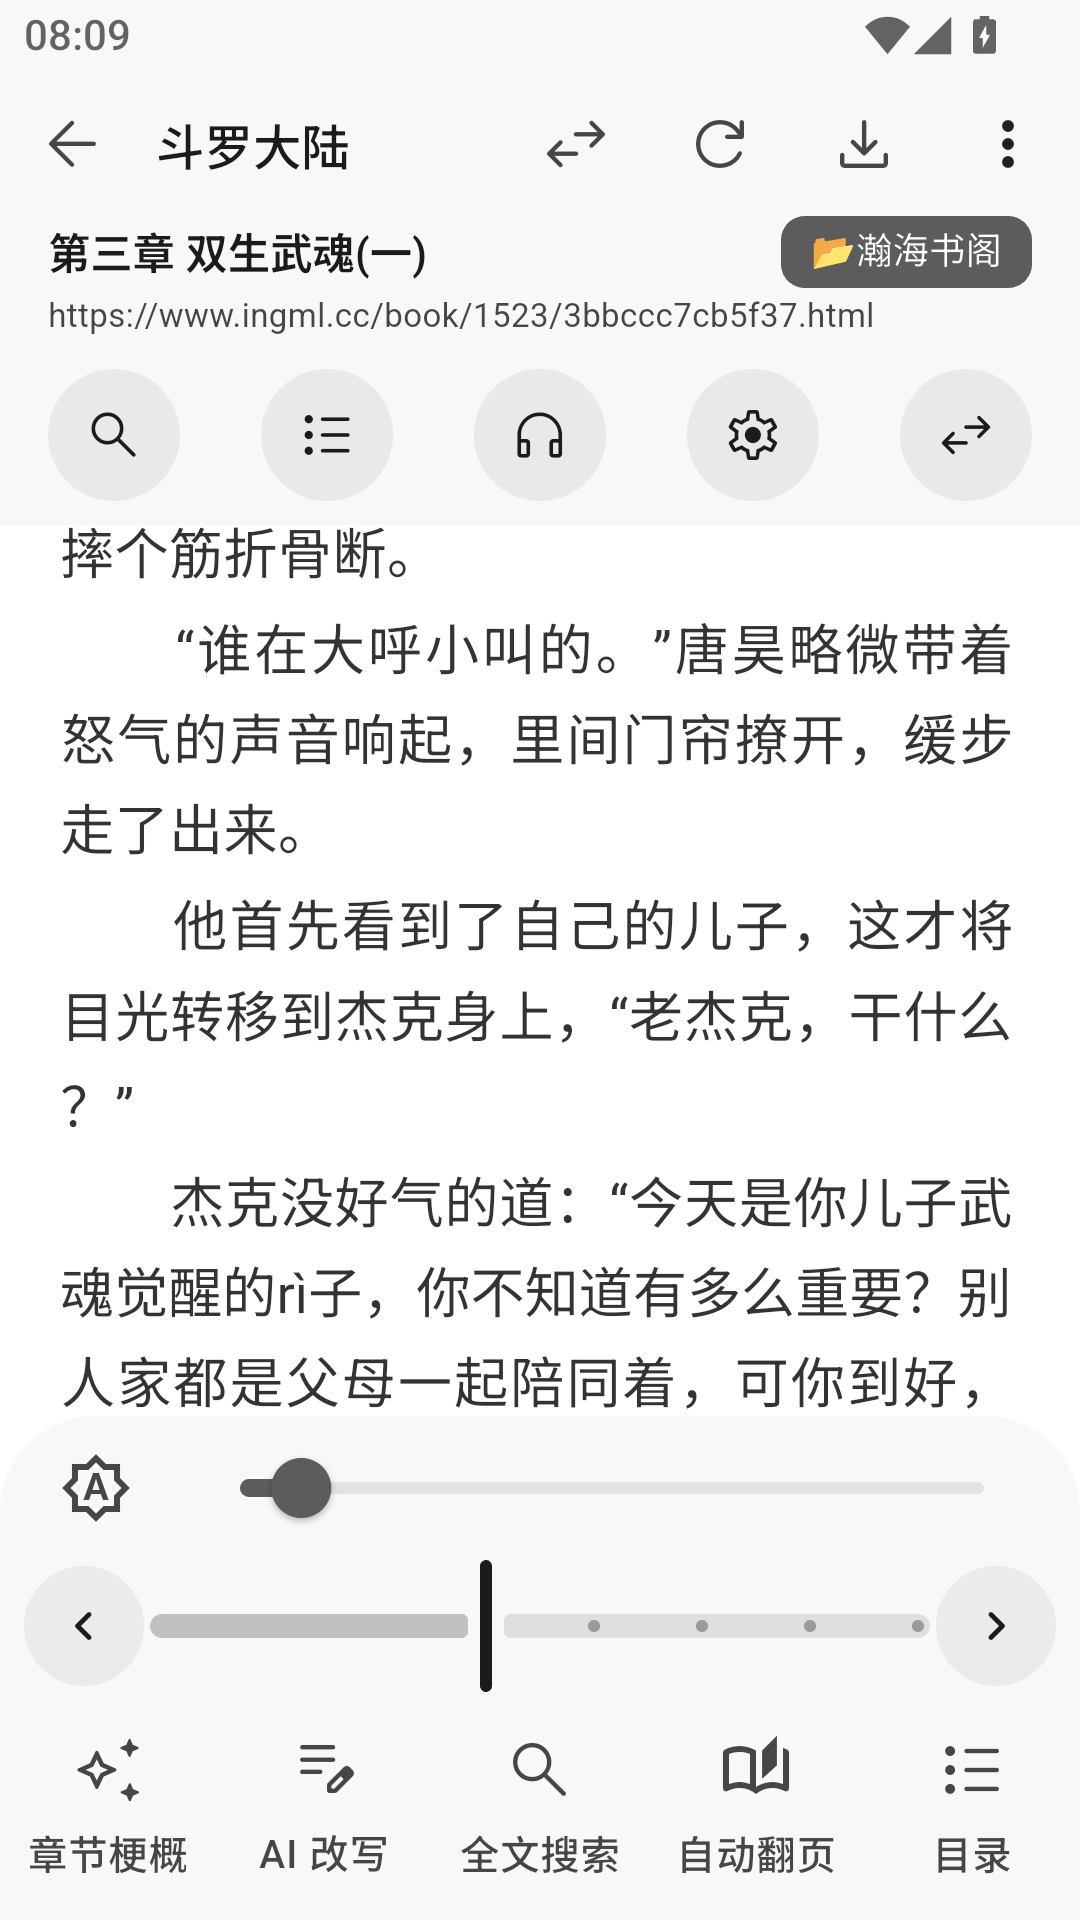
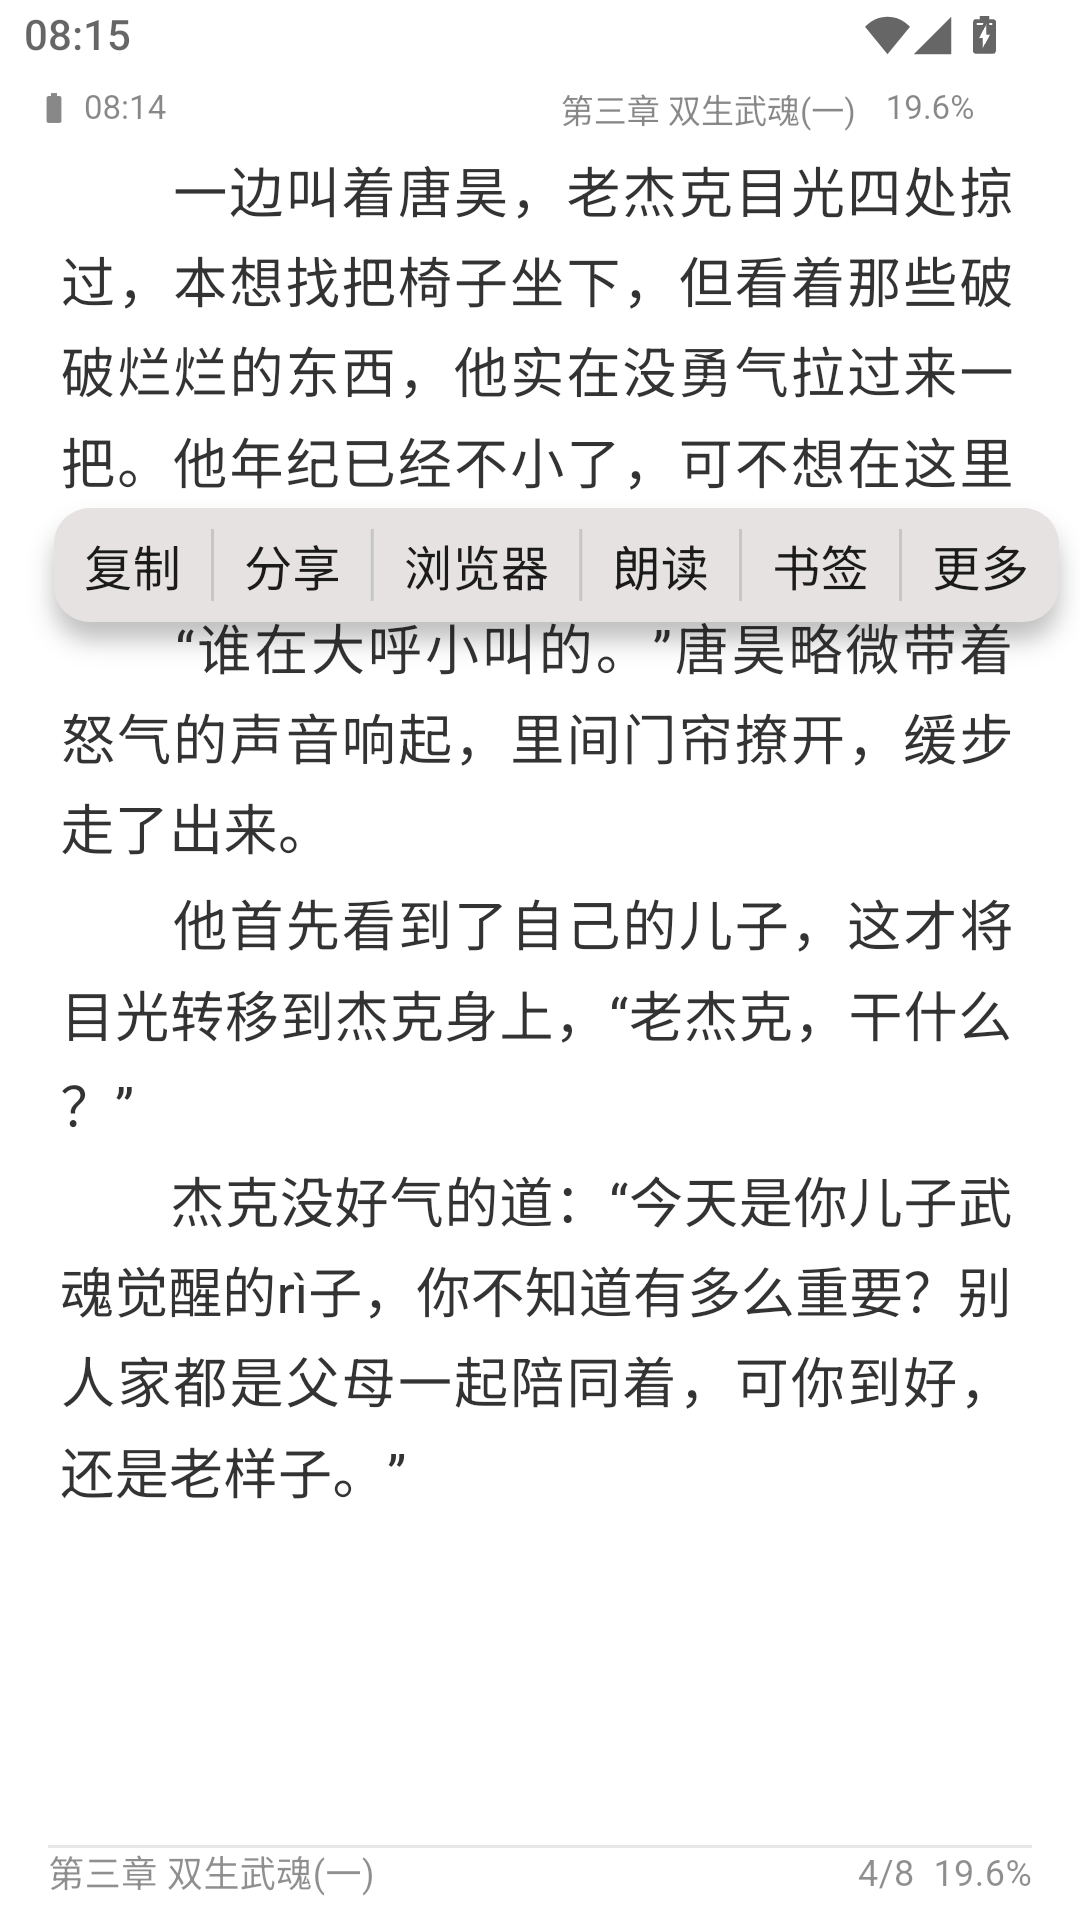
docs(ui): 1-12定稿+批1差异表完整性声明——16屏全部列毕，进入阶段C修复

diff --git a/scripts/parity_capture_ours.py b/scripts/parity_capture_ours.py
@@ -109,6 +109,18 @@ READER_CENTER = (540, 960)       # 中心点（唤出/收起菜单）
 READER_MENU_ROW = {              # 菜单底部快捷行 y=1806
     "章节梗概": (108, 1806), "全文搜索": (540, 1806),
     "自动翻页": (756, 1806), "目录": (972, 1806)}
+# 长按浮条（text_selection_panel.dart ReaderSelectionToolbar 的 6 按钮，
+# uiautomator content-desc 实证：复制/分享/浏览器/朗读/书签/更多 均可见）。
+# 主特征取前 5 个：实测菜单态 dump 无这 5 词（只有「更多」重叠），
+# 故「更多」不作主特征，防菜单+选中错态误判。
+LONGPRESS_TOOLBAR_KWS = ("复制", "分享", "浏览器", "朗读", "书签")
+# 「仍在阅读器」特征：正文行以 content-desc 暴露（如「唐三道…」）；
+# 浮条态不显示页码指示（「章」/「1/8」仅在菜单态出现），故改用正文词。
+LONGPRESS_READER_KWS = ("唐三", "斗罗大陆")
+# 长按探点：正文中部 3 行（任务指定坐标），依次试直到 dump 命中浮条
+LONGPRESS_PROBES = ((540, 700), (540, 1000), (540, 1300))
+# 12 屏 3 探点全不命中时的连拍兜底标记（main 汇总时汇报）
+_LP12_BURST = False
 
 
 def resolve_adb() -> str:
@@ -554,16 +566,44 @@ def nav_11() -> None:
 
 
 def nav_12() -> None:
-    """长按浮条：干净进入阅读器 → 确保自动翻页已停止 → 长按正文段落。
+    """长按浮条：干净进入阅读器 → 停止运行中的自动翻页 → 正文中部 3 探点依次长按。
 
-    长按后浮条（复制/分享/浏览器/朗读/书签/更多）须保持到截图完成；
-    截图后按返回会直接退出阅读器，故取消选中交由下一屏冷启动兜底
-    （选中态为会话态，force-stop 即清除，无持久化泄漏）。
+    探点协议（每点）：`input swipe x y x y 950`（同点 950ms，超 Flutter 500ms
+    长按阈值触发 onLongPressStart → ReaderSelectionToolbar 浮条）→ sleep 1.5s → dump：
+      - 命中浮条按钮词（复制/分享/浏览器/朗读/书签，content-desc 实证）
+        且命中正文词（唐三/斗罗大陆，证明仍在阅读器）→ 立即停止探测返回，
+        由 run_screen 截图存 12_reader_longpress.png；
+      - 未命中则试下一探点（浮条若已弹出则全屏屏障拦截后续长按，
+        旧浮条保持，连拍兜底时画面即真实状态）。
+    3 点全不命中：首探点长按后 0.5/1.5/3s 连拍 3 张存
+    12_reader_longpress_t1/t2/t3.png 供人工目视，并置 _LP12_BURST 汇报；
+    run_screen 断言随后失败 → 12_reader_longpress.png 不覆盖（保留旧图）。
+    浮条为会话态（force-stop 即清除），截图后无需复位，冷启动兜底。
     """
+    global _LP12_BURST
+    _LP12_BURST = False
     _to_reader()
     _ensure_auto_flip_off()
-    swipe(540, 600, 540, 600, 900)  # 长按正文段落（同点 900ms，实测浮条出现）
-    wait(2)
+    for i, (x, y) in enumerate(LONGPRESS_PROBES, 1):
+        swipe(x, y, x, y, 950)  # 同点 950ms 长按
+        wait(1.5)
+        d = dump()
+        tb = has_kw(d, LONGPRESS_TOOLBAR_KWS)
+        rd = has_kw(d, LONGPRESS_READER_KWS)
+        if tb and rd:
+            rec(f"  [12] 探点 {i} ({x},{y}) 命中：浮条「{tb}」+ 阅读器「{rd}」")
+            return
+        rec(f"  [12] 探点 {i} ({x},{y}) 未命中（浮条={tb or '-'}，阅读器={rd or '-'}）")
+    # 3 点全不命中：连拍兜底（长按后 0.5/1.5/3s 各一张）
+    bx, by = LONGPRESS_PROBES[0]
+    swipe(bx, by, bx, by, 950)
+    for delay, tag in ((0.5, "t1"), (1.5, "t2"), (3.0, "t3")):
+        wait(delay)
+        f = screenshot(f"12_reader_longpress_{tag}.png")
+        rec(f"  [12] 连拍 {tag}（长按后 +{delay}s）落盘：{f.name}（{f.stat().st_size}B）")
+    _LP12_BURST = True
+    rec("  [12] 3 探点 dump 均未命中浮条：已连拍 t1/t2/t3 供目视；"
+        "12_reader_longpress.png 将保留旧图不覆盖")
 
 
 def nav_13() -> None:
@@ -661,10 +701,13 @@ SCREENS: list[tuple[str, str, str, tuple[str, ...], tuple[str, ...],
      ("退出阅读", "自动翻页", "停止翻页"), None),
     ("10", "reader",           nav_10,        ("唐门", "斗罗大陆", "唐三"), (), (), None),
     ("11", "reader_menu",      nav_11,        ("全文搜索", "自动翻页", "退出阅读"), (), (), None),
-    # 长按浮条按钮（text_selection_panel.dart 实证：复制/分享/浏览器/朗读/书签/更多）
-    # AND 条件：浮条关键词 + 阅读器特征（章/页码 1/8），排除误存非阅读页
+    # 长按浮条（text_selection_panel.dart ReaderSelectionToolbar，uiautomator
+    # content-desc 实证 6 按钮：复制/分享/浏览器/朗读/书签/更多）：
+    # 主特征取浮条特有的 5 词（实测菜单态 dump 无这 5 词；「更多」与菜单重叠故剔除），
+    # AND 条件为正文词（唐三/斗罗大陆；浮条态不显示页码，旧「章/1/8」必失败），
+    # 双条件同中才判定浮条态在屏，防菜单+选中错态误存
     ("12", "reader_longpress", nav_12,
-     ("复制", "分享", "朗读", "浏览器", "书签", "更多"), ("章", "1/8"), (), None),
+     LONGPRESS_TOOLBAR_KWS, LONGPRESS_READER_KWS, (), None),
     # 13 搜索内容页（全文搜索路由：标题「搜索正文」+ 搜索选项/搜索历史）；
     # 负向排除阅读器菜单/自动翻页特征（防误存发现页/订阅页/阅读器）
     ("13", "search_content",   nav_13,
@@ -764,6 +807,9 @@ def main() -> int:
         rec("失败/跳过清单：")
         for r in fail:
             rec(f"  - {r.num}_{r.name}：{r.reason}")
+    if _LP12_BURST:
+        rec("注：12 屏 3 探点 dump 均未命中浮条，已改连拍存 "
+            "12_reader_longpress_t1/t2/t3.png（请目视确认浮条是否实际弹出）")
     rec(f"截图目录：{OUT_DIR}")
     return 1 if fail else 0
 

diff --git a/docs/SCREEN_1TO1_PARITY_LEDGER_20260914.md b/docs/SCREEN_1TO1_PARITY_LEDGER_20260914.md
@@ -193,4 +193,10 @@
 |---|---|---|
 | A1 | ours=底栏控制条「自动翻页 — 10秒 + ｜ 目录 停止 退出」；ref 图示未见控制条（用户指认为自动翻页运行态） | P3 参考形态待确认 |
 
-**1-12 长按浮条**：重采仍未命中（拍到菜单态+局部选中，无浮条）→ **挂起重采**（专项任务）。
+**1-12 长按浮条**（重采成功，pairs_2.0.260/12）
+| # | 差异 | 级别 |
+|---|---|---|
+| L1 | 浮条项：ref=7 项平铺（复制/分享/浏览器/朗读/书签/**字!**/**⚙**）；ours=6 项（…/**更多**）——字号与设置收进更多 | P3 形态微差（功能可达） |
+| ✅ | 浮条形态（白色圆角条+分隔线+悬于选中上方）与核心 5 项一致；底栏页码一致 | — |
+
+> **批 1 差异表完整性声明（0914 夜）**：1-2~1-16 全部 16 屏差异逐项列毕并定稿（含阶段B 阅读器域），截图资产 ours_2.0.260 全部核图通过；配色类差异统一留批 3。**进入阶段C 修复（C1→C2→C3 串行执行，规避单设备冲突）。**

diff --git a/docs/parity_shots/pairs_2.0.260/INDEX.md b/docs/parity_shots/pairs_2.0.260/INDEX.md
@@ -23,6 +23,6 @@
 | 10b_reader_doupo_content | 10b_reader_doupo_content.png | —（缺失） | — | — | — |
 | 10c_reader_alt | 10c_reader_alt.png | —（缺失） | — | — | — |
 | 11_reader_menu | 11_reader_menu.png | —（缺失） | — | — | — |
-| 12_reader_longpress | 12_reader_longpress.png | 12_reader_longpress.png | 12_reader_longpress_pair.png | 88.98% | 一致 |
+| 12_reader_longpress | 12_reader_longpress.png | 12_reader_longpress.png | 12_reader_longpress_pair.png | 91.92% | 一致 |
 | 13_search_content | 13_search_content.png | 13_search_content.png | 13_search_content_pair.png | 5.45% | 一致 |
 | 16_auto_flip | 16_auto_flip.png | 16_auto_flip.png | 16_auto_flip_pair.png | 90.81% | 一致 |
